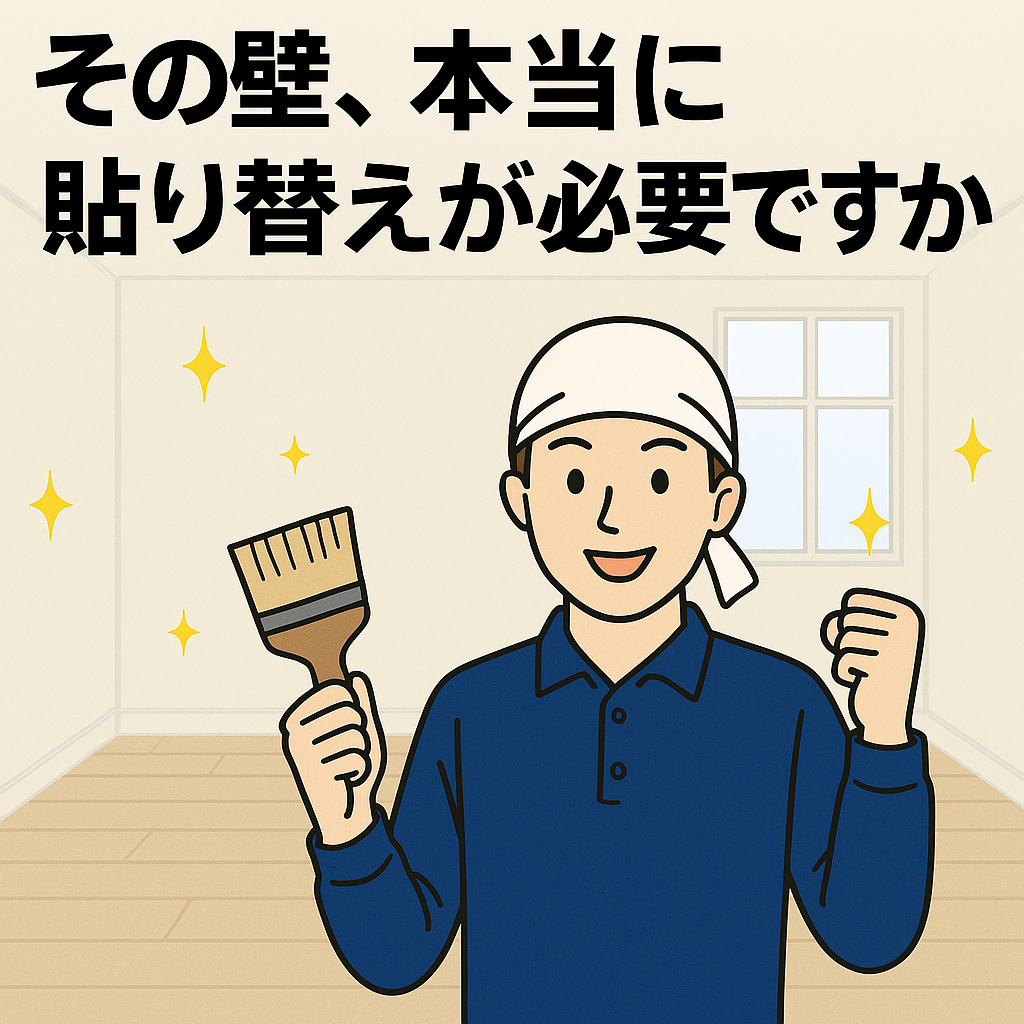
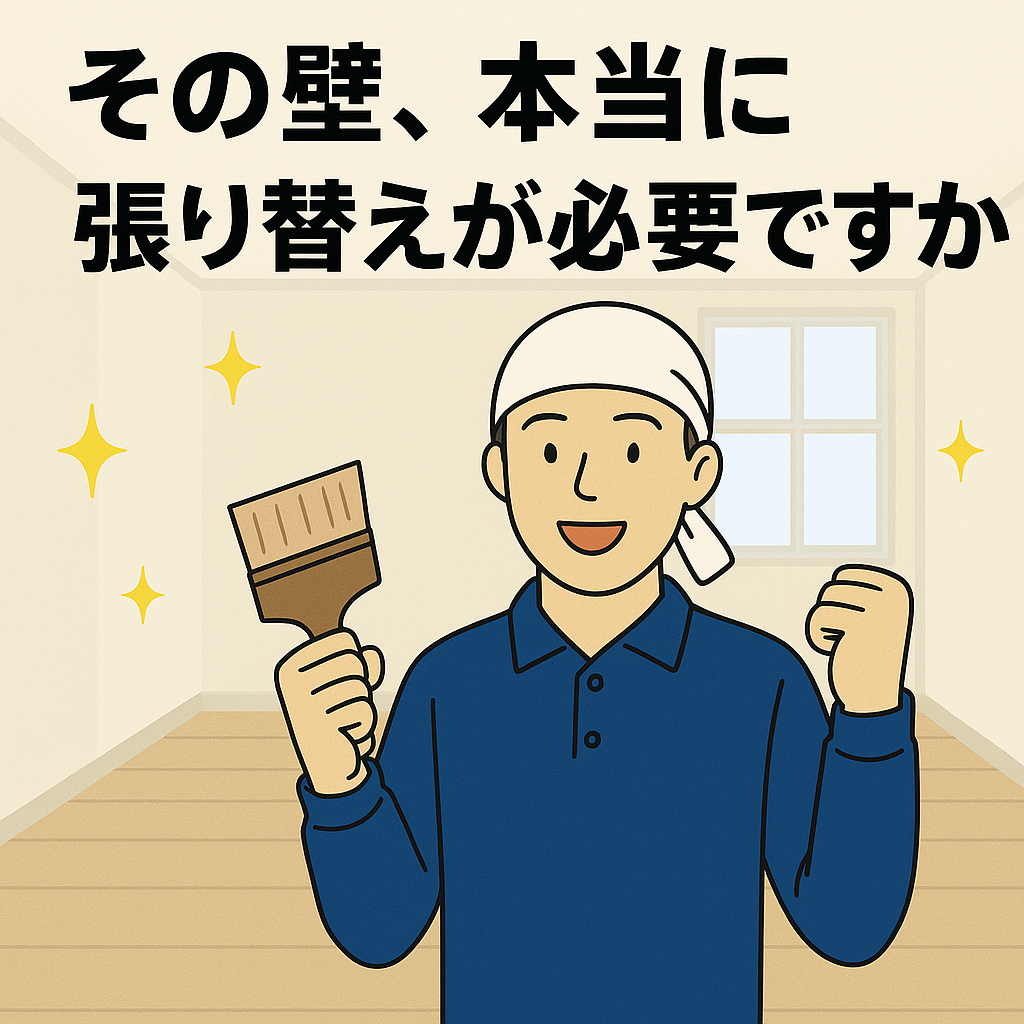
貼り替えの文字を張り替えに修正

diff --git a/docs/index.html b/docs/index.html
@@ -52,7 +52,7 @@
       			<li>
         			<strong>コスト削減</strong>
         			<ul>
-          				<li>・壁紙の貼り替えではなく再生で対応するため、材料費・人件費を大幅に削減可能。</li>
+          				<li>・壁紙の張り替えではなく再生で対応するため、材料費・人件費を大幅に削減可能。</li>
           				<li>・原状回復工事や賃貸住宅の退去時の対応に最適。</li>
         			</ul>
       			</li>
